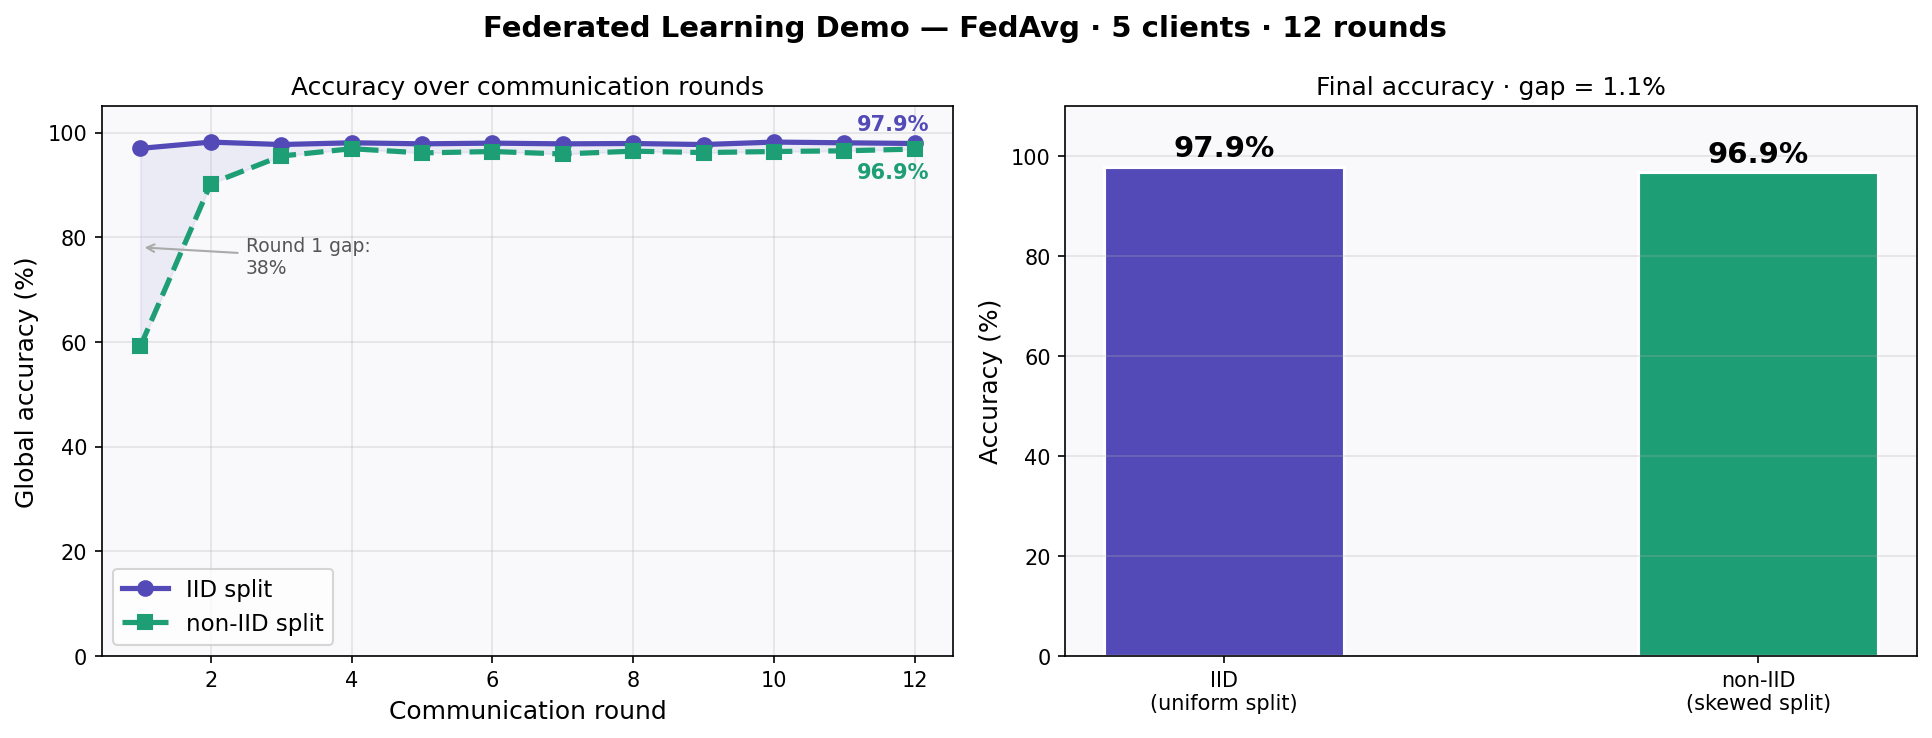
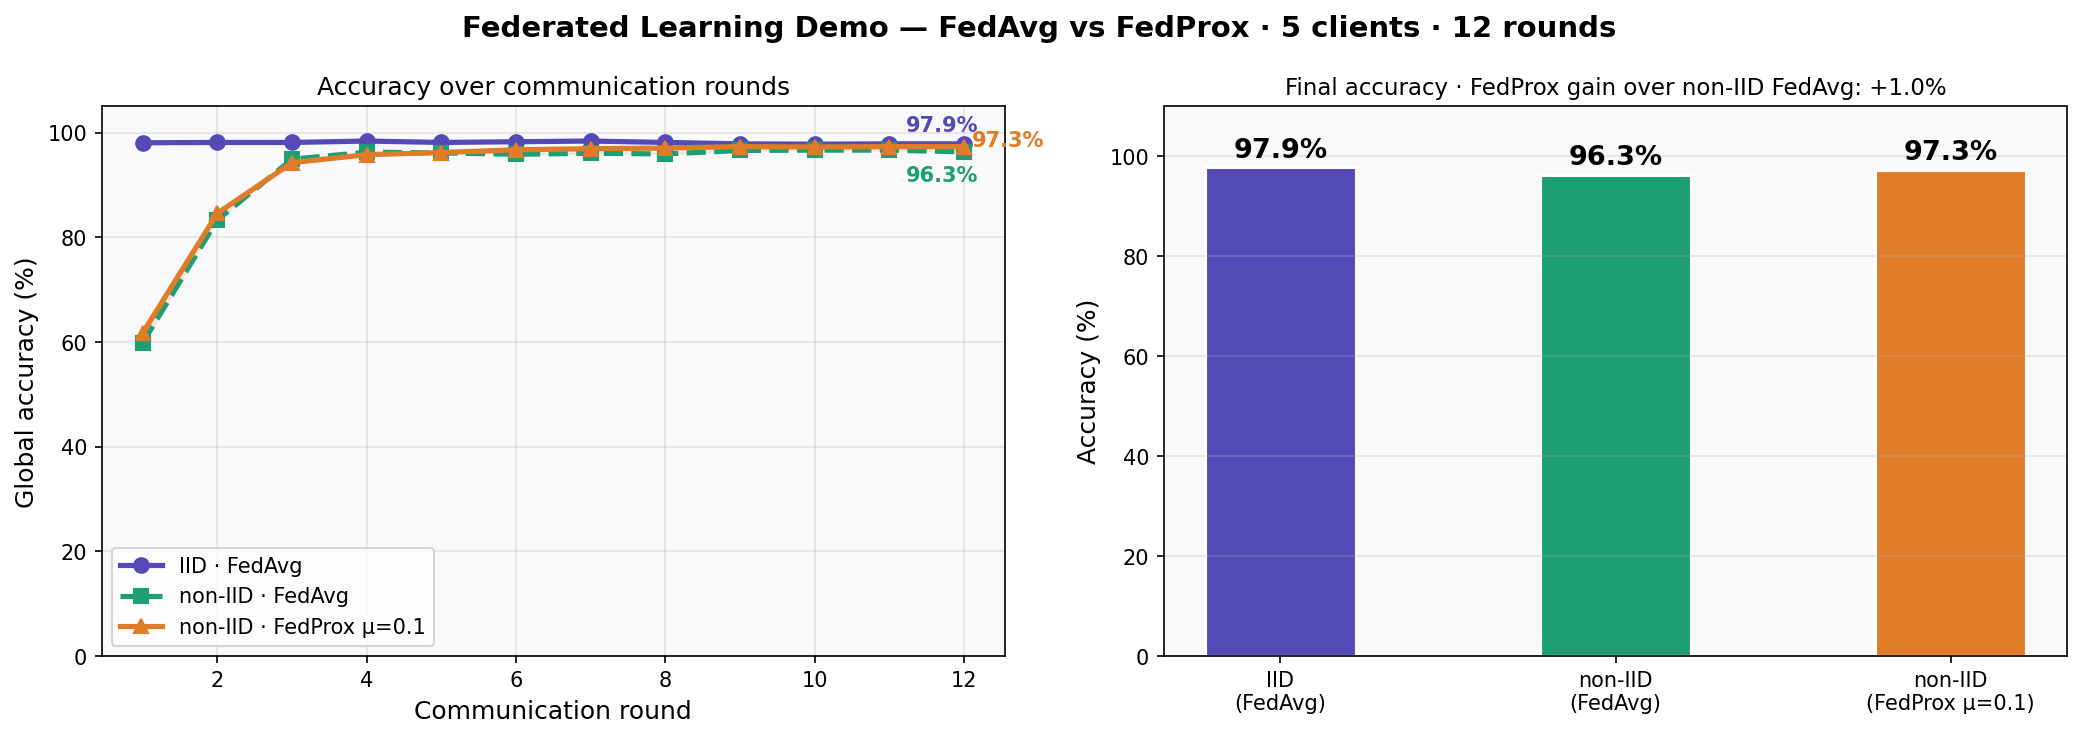
Implement FedProx simulation, update results plot, and ignore venv

diff --git a/simulate.py b/simulate.py
@@ -1,10 +1,11 @@
 """
-Federated Learning Demo — PyTorch + FedAvg
-==========================================
+Federated Learning Demo — PyTorch + FedAvg / FedProx
+=====================================================
 Implements FL from scratch:
   - 5 simulated clients with private local data shards
   - FedAvg server-side aggregation (McMahan et al. 2017)
-  - IID vs non-IID convergence comparison
+  - FedProx with proximal term µ/2 * ||w - w_global||²  (Li et al. 2020)
+  - IID vs non-IID vs non-IID+FedProx convergence comparison
   - Saves fl_results.png
 """
 import warnings; warnings.filterwarnings("ignore")
@@ -22,6 +23,7 @@ NUM_CLIENTS  = 5
 NUM_ROUNDS   = 12
 LOCAL_EPOCHS = 2
 LR           = 1e-2
+MU           = 0.1   # FedProx proximal term coefficient
 
 
 def train_client(global_model, trainloader):
@@ -34,6 +36,26 @@ def train_client(global_model, trainloader):
         for X, y in trainloader:
             opt.zero_grad()
             crit(model(X), y).backward()
+            opt.step()
+    return get_parameters(model), len(trainloader.dataset)
+
+
+def train_client_fedprox(global_model, trainloader, mu):
+    """FedProx local step: adds µ/2 * ||w - w_global||² to the loss."""
+    model         = copy.deepcopy(global_model)
+    global_params = [p.detach().clone() for p in global_model.parameters()]
+    opt           = torch.optim.Adam(model.parameters(), lr=LR)
+    crit          = nn.CrossEntropyLoss()
+    model.train()
+    for _ in range(LOCAL_EPOCHS):
+        for X, y in trainloader:
+            opt.zero_grad()
+            loss = crit(model(X), y)
+            prox = sum(
+                ((p - p0) ** 2).sum()
+                for p, p0 in zip(model.parameters(), global_params)
+            )
+            (loss + (mu / 2) * prox).backward()
             opt.step()
     return get_parameters(model), len(trainloader.dataset)
 
@@ -56,16 +78,17 @@ def evaluate(model):
     return correct / len(_TESTLOADER.dataset)
 
 
-def run_experiment(non_iid: bool, label: str):
+def run_experiment(non_iid: bool, label: str, mu: float = 0.0):
+    algo = f"FedProx (µ={mu})" if mu > 0.0 else "FedAvg"
     print(f"\n{'='*62}")
     print(f"  {label}")
     print(f"{'='*62}")
-    print(f"  Clients={NUM_CLIENTS}  Rounds={NUM_ROUNDS}  LocalEpochs={LOCAL_EPOCHS}")
+    print(f"  Clients={NUM_CLIENTS}  Rounds={NUM_ROUNDS}  LocalEpochs={LOCAL_EPOCHS}  Algorithm={algo}")
 
     partitions = [load_partition(cid, NUM_CLIENTS, non_iid) for cid in range(NUM_CLIENTS)]
 
     if non_iid:
-        print("\n  Data distribution (non-IID — each client dominated by 2 classes):")
+        print("\n  Data distribution (non-IID - each client dominated by 2 classes):")
         for cid in range(NUM_CLIENTS):
             describe_partition(cid, NUM_CLIENTS, non_iid=True)
 
@@ -77,7 +100,10 @@ def run_experiment(non_iid: bool, label: str):
         all_params, all_sizes = [], []
         for cid in range(NUM_CLIENTS):
             tl, _ = partitions[cid]
-            p, n  = train_client(global_model, tl)
+            if mu > 0.0:
+                p, n = train_client_fedprox(global_model, tl, mu)
+            else:
+                p, n = train_client(global_model, tl)
             all_params.append(p)
             all_sizes.append(n)
 
@@ -85,89 +111,95 @@ def run_experiment(non_iid: bool, label: str):
         acc = evaluate(global_model)
         accs.append(acc)
 
-        bar = "█" * int(acc * 40)
+        bar = "#" * int(acc * 40)
         print(f"  Round {rnd:2d}  {bar:<40}  {acc*100:5.1f}%  ({time.time()-t0:.1f}s)")
 
     print(f"\n  Final accuracy: {accs[-1]*100:.1f}%")
     return list(range(1, NUM_ROUNDS + 1)), accs
 
 
-def plot_results(iid_r, iid_a, niid_r, niid_a):
-    purple, teal = "#534AB7", "#1D9E75"
+def plot_results(iid_r, iid_a, niid_r, niid_a, fp_r, fp_a):
+    purple, teal, orange = "#534AB7", "#1D9E75", "#E07B28"
 
-    fig, (ax1, ax2) = plt.subplots(1, 2, figsize=(13, 5))
+    fig, (ax1, ax2) = plt.subplots(1, 2, figsize=(14, 5))
     fig.suptitle(
-        f"Federated Learning Demo — FedAvg · {NUM_CLIENTS} clients · {NUM_ROUNDS} rounds",
+        f"Federated Learning Demo — FedAvg vs FedProx · {NUM_CLIENTS} clients · {NUM_ROUNDS} rounds",
         fontsize=14, fontweight="bold"
     )
 
     iid_pct  = [a * 100 for a in iid_a]
     niid_pct = [a * 100 for a in niid_a]
+    fp_pct   = [a * 100 for a in fp_a]
 
-    ax1.plot(iid_r,  iid_pct,  "o-",  color=purple, lw=2.5, ms=7, label="IID split",     zorder=3)
-    ax1.plot(niid_r, niid_pct, "s--", color=teal,   lw=2.5, ms=7, label="non-IID split", zorder=3)
-    ax1.fill_between(iid_r, iid_pct, niid_pct, alpha=0.08, color=purple)
+    ax1.plot(iid_r,  iid_pct,  "o-",  color=purple, lw=2.5, ms=7, label="IID · FedAvg",         zorder=3)
+    ax1.plot(niid_r, niid_pct, "s--", color=teal,   lw=2.5, ms=7, label="non-IID · FedAvg",     zorder=3)
+    ax1.plot(fp_r,   fp_pct,   "^-",  color=orange, lw=2.5, ms=7, label=f"non-IID · FedProx µ={MU}", zorder=3)
+    ax1.fill_between(fp_r, niid_pct, fp_pct, alpha=0.10, color=orange)
     ax1.set_xlabel("Communication round", fontsize=12)
     ax1.set_ylabel("Global accuracy (%)", fontsize=12)
     ax1.set_title("Accuracy over communication rounds", fontsize=12)
     ax1.set_ylim(0, 105)
-    ax1.legend(fontsize=11)
+    ax1.legend(fontsize=10)
     ax1.grid(alpha=0.3)
     ax1.set_facecolor("#f9f9fb")
     ax1.annotate(f"{iid_pct[-1]:.1f}%",  (iid_r[-1],  iid_pct[-1]),
-                 xytext=(-28, 6),  textcoords="offset points", color=purple, fontweight="bold", fontsize=10)
+                 xytext=(-28, 6),   textcoords="offset points", color=purple, fontweight="bold", fontsize=10)
     ax1.annotate(f"{niid_pct[-1]:.1f}%", (niid_r[-1], niid_pct[-1]),
                  xytext=(-28, -14), textcoords="offset points", color=teal,   fontweight="bold", fontsize=10)
+    ax1.annotate(f"{fp_pct[-1]:.1f}%",   (fp_r[-1],   fp_pct[-1]),
+                 xytext=(4, 0),     textcoords="offset points", color=orange, fontweight="bold", fontsize=10)
 
-    # Round 1 gap annotation
-    gap_r1 = iid_pct[0] - niid_pct[0]
-    ax1.annotate(f"Round 1 gap:\n{gap_r1:.0f}%",
-                 xy=(1, (iid_pct[0]+niid_pct[0])/2),
-                 xytext=(2.5, (iid_pct[0]+niid_pct[0])/2 - 5),
-                 fontsize=9, color="#555",
-                 arrowprops=dict(arrowstyle="->", color="#aaa"))
-
-    finals = [iid_pct[-1], niid_pct[-1]]
-    bars = ax2.bar(["IID\n(uniform split)", "non-IID\n(skewed split)"],
-                   finals, color=[purple, teal], width=0.45, edgecolor="white", lw=1.5)
+    finals = [iid_pct[-1], niid_pct[-1], fp_pct[-1]]
+    colors = [purple, teal, orange]
+    labels = ["IID\n(FedAvg)", "non-IID\n(FedAvg)", f"non-IID\n(FedProx µ={MU})"]
+    bars = ax2.bar(labels, finals, color=colors, width=0.45, edgecolor="white", lw=1.5)
     for bar, val in zip(bars, finals):
         ax2.text(bar.get_x() + bar.get_width() / 2, val + 0.8,
-                 f"{val:.1f}%", ha="center", va="bottom", fontsize=14, fontweight="bold")
+                 f"{val:.1f}%", ha="center", va="bottom", fontsize=13, fontweight="bold")
 
-    gap = abs(finals[0] - finals[1])
-    ax2.set_title(f"Final accuracy · gap = {gap:.1f}%", fontsize=12)
+    fp_gain = fp_pct[-1] - niid_pct[-1]
+    ax2.set_title(f"Final accuracy · FedProx gain over non-IID FedAvg: {fp_gain:+.1f}%", fontsize=11)
     ax2.set_ylabel("Accuracy (%)", fontsize=12)
     ax2.set_ylim(0, 110)
     ax2.grid(axis="y", alpha=0.3)
     ax2.set_facecolor("#f9f9fb")
 
     plt.tight_layout()
-    os.makedirs("/mnt/user-data/outputs", exist_ok=True)
-    out = "/mnt/user-data/outputs/fl_results.png"
+    out = "fl_results.png"
     plt.savefig(out, dpi=150, bbox_inches="tight")
+    try:
+        os.makedirs("/mnt/user-data/outputs", exist_ok=True)
+        plt.savefig("/mnt/user-data/outputs/fl_results.png", dpi=150, bbox_inches="tight")
+    except OSError:
+        pass
     plt.close()
-    print(f"\n  Chart saved → {out}")
+    print(f"\n  Chart saved -> {out}")
     return out
 
 
 if __name__ == "__main__":
     print("\n FEDERATED LEARNING DEMO")
-    print(" PyTorch · FedAvg from scratch · 10-class synthetic dataset\n")
+    print(" PyTorch - FedAvg / FedProx from scratch - 10-class synthetic dataset\n")
 
-    iid_r,  iid_a  = run_experiment(non_iid=False, label="Experiment 1 — IID  (uniform split)")
-    niid_r, niid_a = run_experiment(non_iid=True,  label="Experiment 2 — non-IID (skewed split)")
+    iid_r,  iid_a  = run_experiment(non_iid=False, label="Experiment 1 - IID  (uniform split)")
+    niid_r, niid_a = run_experiment(non_iid=True,  label="Experiment 2 - non-IID (skewed split)")
+    fp_r,   fp_a   = run_experiment(non_iid=True,  label=f"Experiment 3 - non-IID + FedProx (µ={MU})", mu=MU)
 
     print("\n" + "=" * 62)
     print("  RESULTS SUMMARY")
     print("=" * 62)
-    print(f"  IID    final accuracy:  {iid_a[-1]*100:.1f}%")
-    print(f"  non-IID final accuracy: {niid_a[-1]*100:.1f}%")
-    gap = (iid_a[-1] - niid_a[-1]) * 100
-    print(f"  IID advantage:          +{gap:.1f}%")
+    print(f"  IID    final accuracy:              {iid_a[-1]*100:.1f}%")
+    print(f"  non-IID final accuracy (FedAvg):    {niid_a[-1]*100:.1f}%")
+    print(f"  non-IID final accuracy (FedProx):   {fp_a[-1]*100:.1f}%")
+    gap    = (iid_a[-1]  - niid_a[-1]) * 100
+    fp_gain = (fp_a[-1]  - niid_a[-1]) * 100
+    print(f"  IID vs non-IID gap:                 {gap:+.1f}%")
+    print(f"  FedProx gain over FedAvg (non-IID): {fp_gain:+.1f}%")
     print()
-    print("  Core FL insight reproduced:")
-    print("  → non-IID data causes slower convergence in early rounds")
-    print("  → FedAvg eventually recovers but IID always has head start")
+    print("  Core FL insights reproduced:")
+    print("  -> non-IID data causes slower convergence in early rounds")
+    print("  -> FedProx proximal term regularises local updates towards global model")
+    print(f"  -> µ={MU} proximal coefficient — increase for stronger regularisation")
 
-    plot_results(iid_r, iid_a, niid_r, niid_a)
+    plot_results(iid_r, iid_a, niid_r, niid_a, fp_r, fp_a)
     print("\nDone! Check fl_results.png for the comparison chart.")

diff --git a/data.py b/data.py
@@ -73,4 +73,4 @@ def describe_partition(client_id: int, num_clients: int = 5, non_iid: bool = Tru
     dominant = [(client_id * 2) % N_CLASSES, (client_id * 2 + 1) % N_CLASSES]
     top      = sorted(range(N_CLASSES), key=lambda i: -counts[i])[:3]
     info     = "  ".join(f"cls{i}:{counts[i]}" for i in top)
-    print(f"  Client {client_id}  n={total:4d}  dominant={dominant}  top → {info}")
+    print(f"  Client {client_id}  n={total:4d}  dominant={dominant}  top -> {info}")